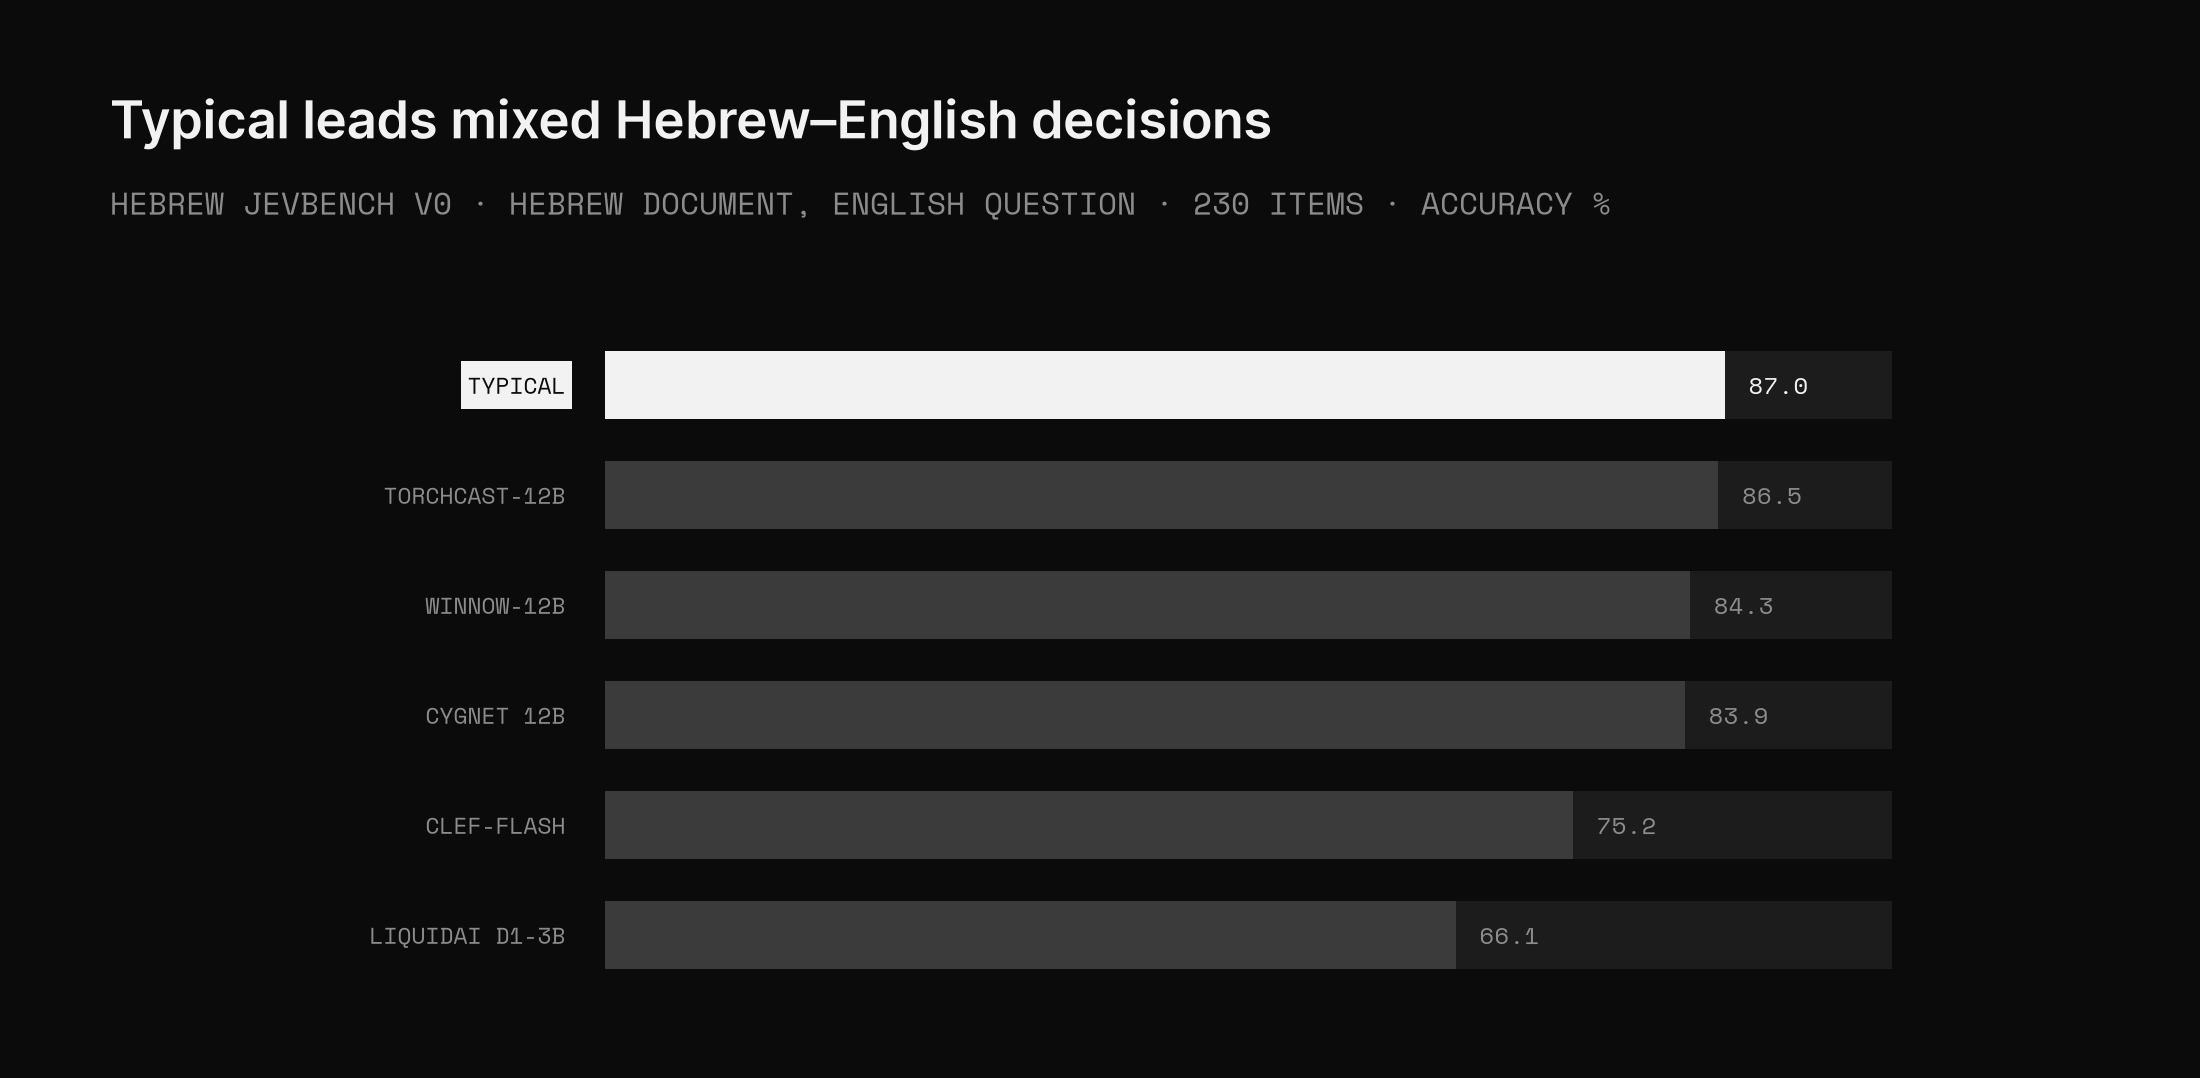
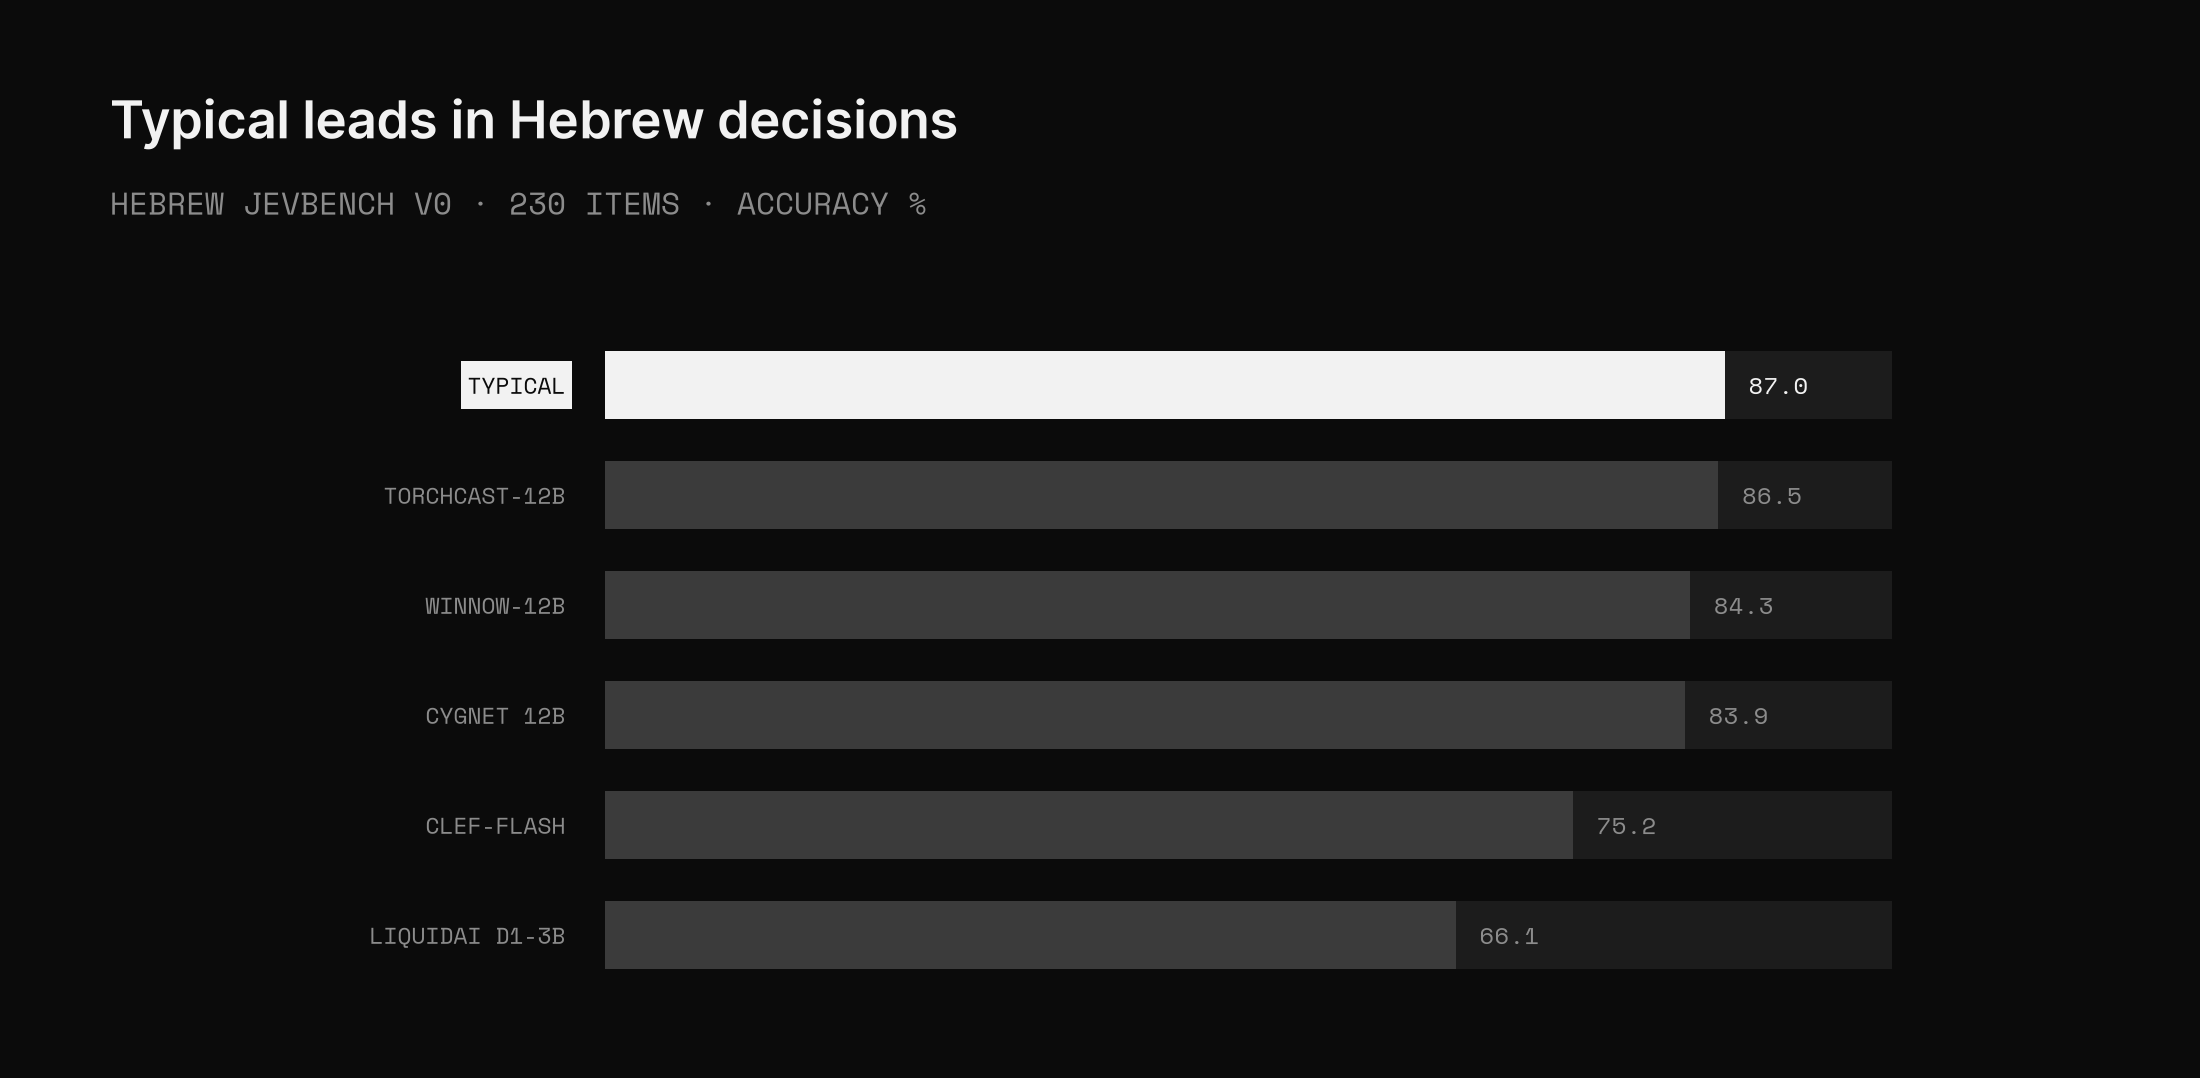
Showcase: Hebrew chart title 'Typical leads in Hebrew decisions'; drop split subtitle

diff --git a/scripts/showcase_plots.py b/scripts/showcase_plots.py
@@ -155,8 +155,8 @@ HEBREW = [("TYPICAL", 87.0, "ours"), ("TORCHCAST-12B", 86.5, "peer"), ("WINNOW-1
 
 def hebrew(t, name):
     fig = page(t, 10, 2.2 + .45 * len(HEBREW))
-    header(fig, t, "Typical leads mixed Hebrew–English decisions",
-           "HEBREW JEVBENCH V0 · HEBREW DOCUMENT, ENGLISH QUESTION · 230 ITEMS · ACCURACY %")
+    header(fig, t, "Typical leads in Hebrew decisions",
+           "HEBREW JEVBENCH V0 · 230 ITEMS · ACCURACY %")
     bar_panel(body(fig), t, "", HEBREW, vmax=100, label_w=.25)
     fig.savefig(OUT / f"{name}_hebrew.png", dpi=220, facecolor=t["page"])
     plt.close(fig)
